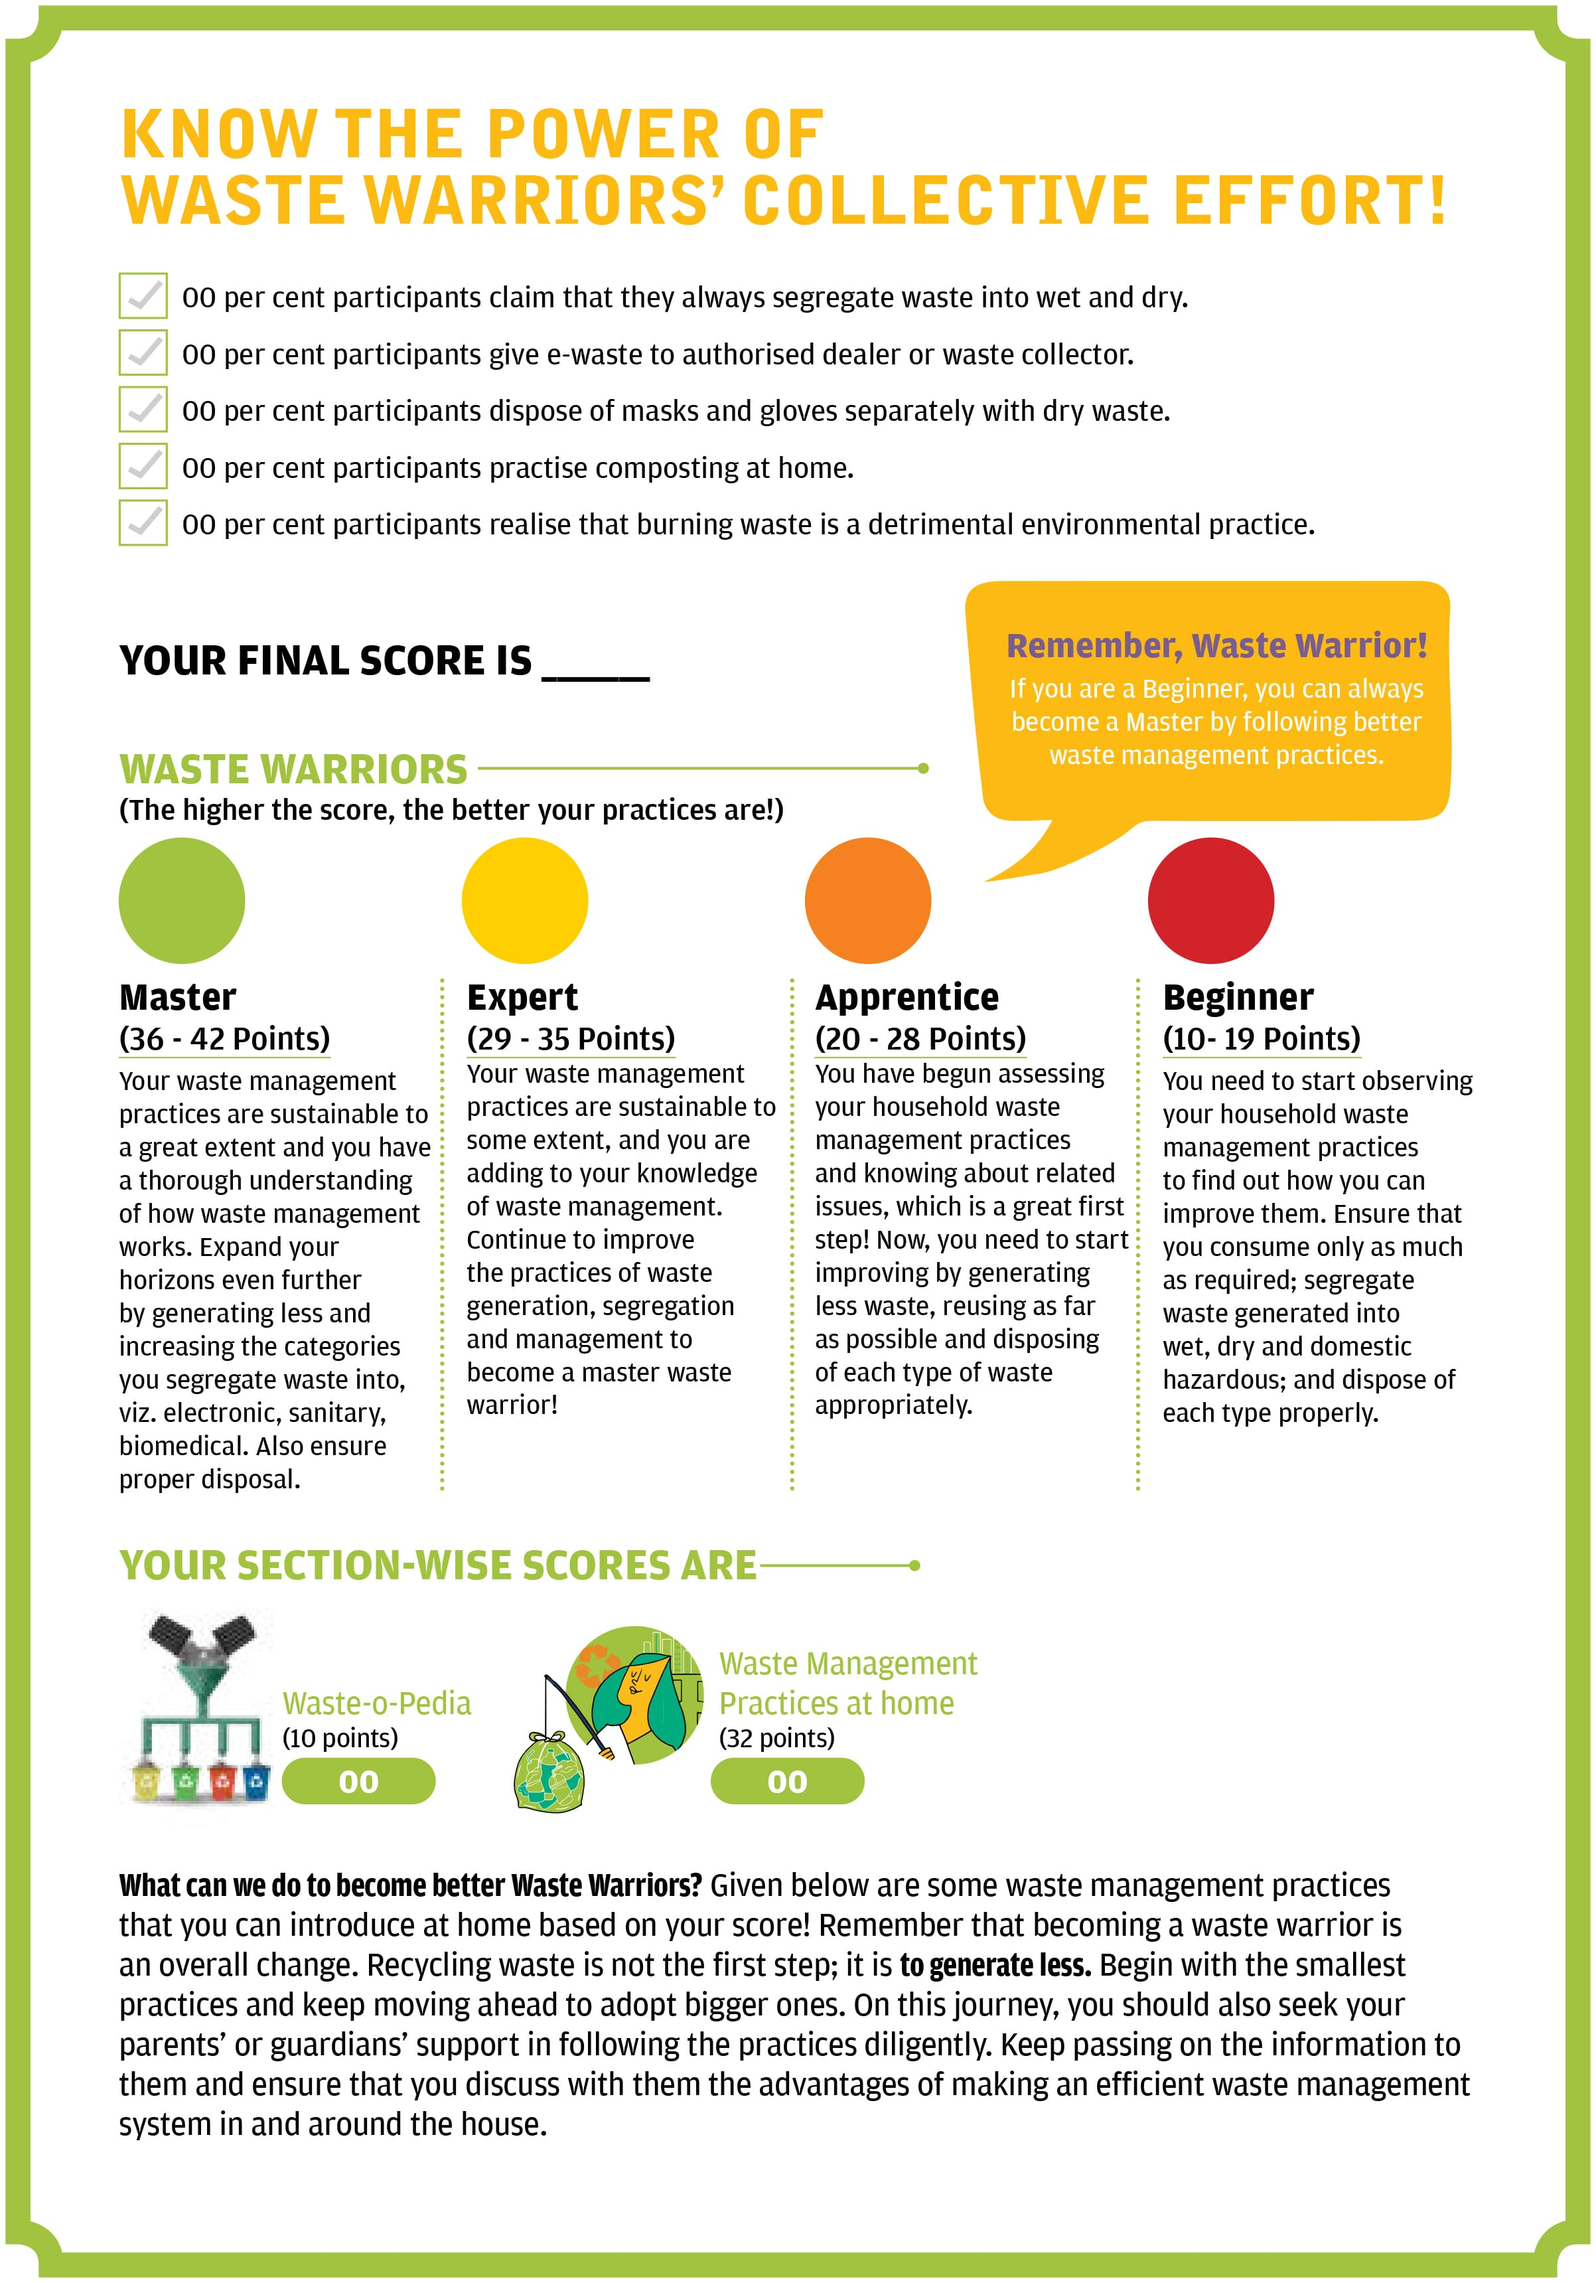
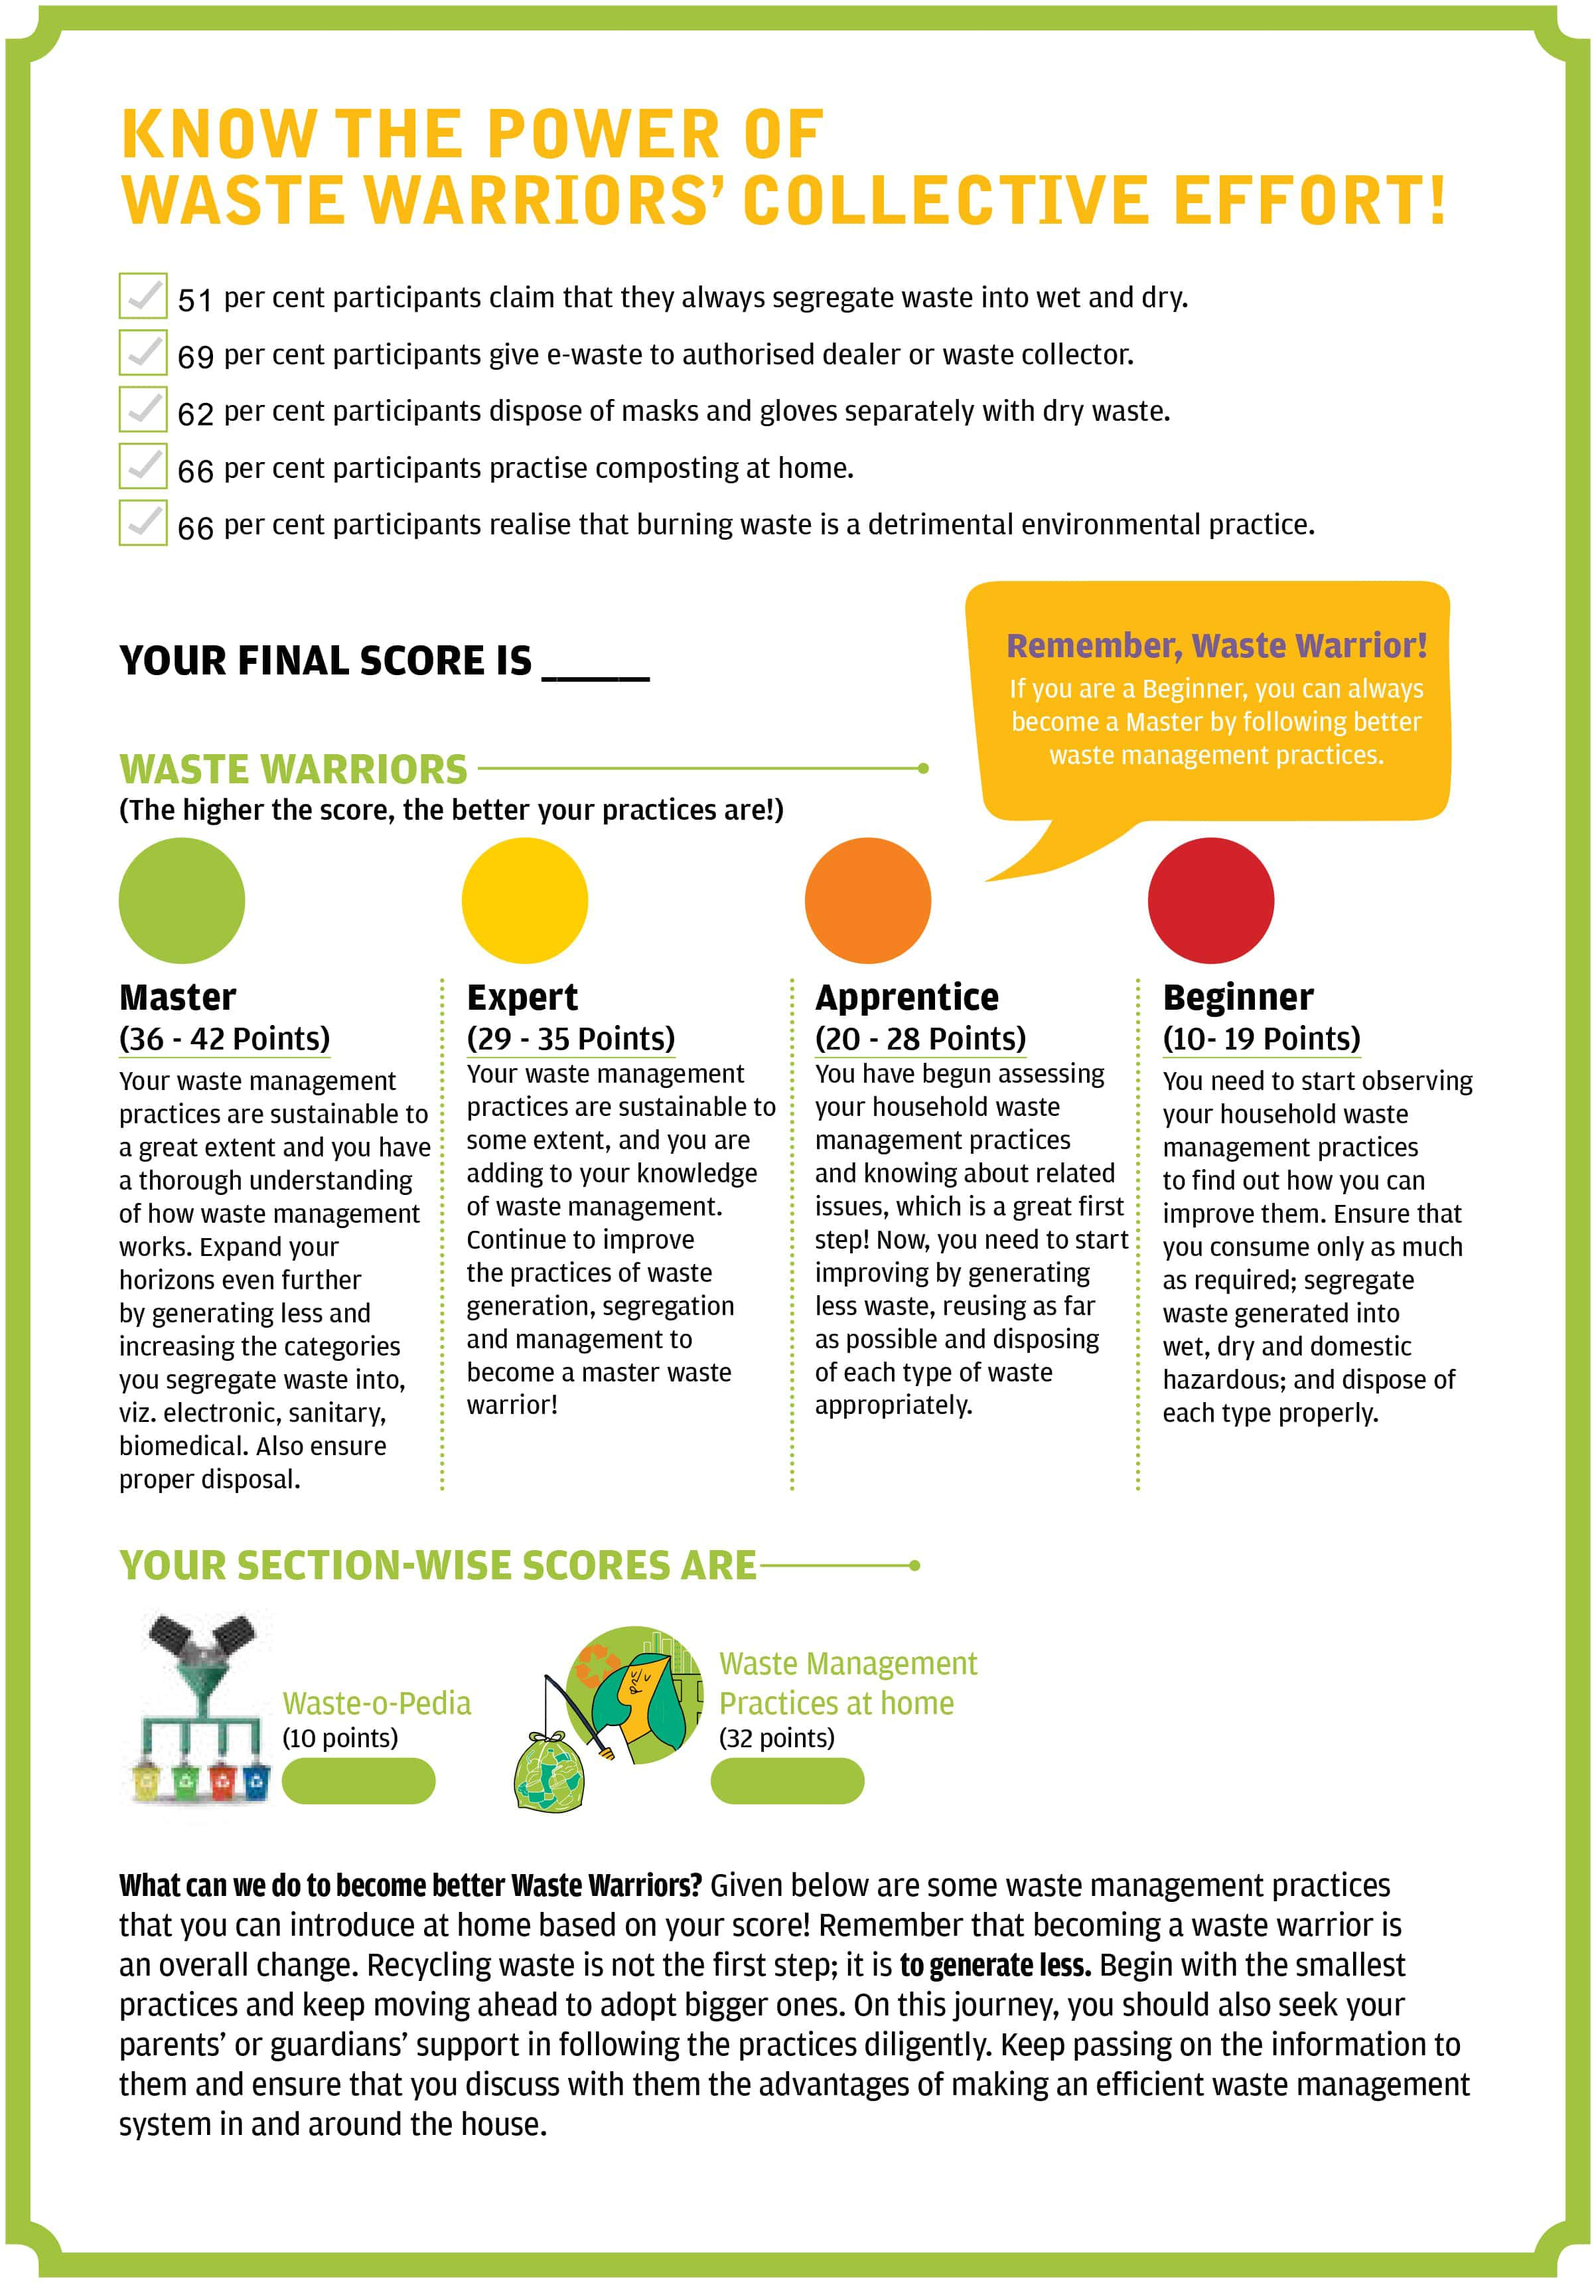
df

Changed region(s): [[0.0936, 0.1245, 0.1559, 0.1867], [0.2183, 0.7778, 0.2495, 0.809]]

diff --git a/20/application/views/digital-waste.php b/20/application/views/digital-waste.php
@@ -3,26 +3,23 @@
 <head>
 <meta http-equiv="Content-Type" content="text/html; charset=UTF-8">
   <title><?php echo $title; ?></title>
-  
     </head>
     <body>
-    
   <?php
-  echo "hello";
   if (!empty($teachers)) {
       $i=0;
       foreach($teachers as $teacher) {
 
-    if ($teacher->participant_name !="") {
+    if ($teacher->name !="") {
         echo "<div class='container'>
-        <div class='image'><img src='assets/img/images/ww1.jpg' width='794' height='1100'></div>";
+        <div class='image'><img src='assets/img/images/ww/ww1.jpg' width='794' height='1100'></div>";
   $parlen = strlen($teacher->participant_name);
   if($parlen > 30){
-    echo "<div class='principal1'>" . strtoupper($teacher->participant_name) ."</div>&nbsp;";
+    echo "<div class='principal1'>" . strtoupper($teacher->name) ."</div>&nbsp;";
 
   }
   else{
-    echo "<div class='principal'>" . strtoupper($teacher->participant_name) ."</div>&nbsp;";
+    echo "<div class='principal'>" . strtoupper($teacher->name) ."</div>&nbsp;";
 
   }
 
@@ -30,50 +27,66 @@
   // echo "<div class='principal'>" . strtoupper($teacher->participant_name) ."</div>&nbsp;";
     $length = strlen($teacher->school_name);
   if($length > 61) {
-  echo  "<div class='school_name1'>". strtoupper($teacher->school_name." ".$teacher->state )."</div>";
+  echo  "<div class='school_name1'>". strtoupper($teacher->school." ".$teacher->state )."</div>";
   
   }else{
-    echo "<div class='school_name'>". strtoupper($teacher->school_name.", ".$teacher->state )."</div>";
+    echo "<div class='school_name'>". strtoupper($teacher->school.", ".$teacher->state )."</div>";
      
   }  
-        echo "<div class='certificateno' style='text-align:right; page-break-after:always;'>"."GSP'S Audit@Home Scorecard/December2020/0".$teacher->id." </div>
+        echo "<div class='certificateno' style='text-align:right; page-break-after:always;'>"."GSP'S Audit@Home Scorecard/FEB2021/0".$teacher->id." </div>
    </div> ";
 
 
   echo "<div class='container'>
-        <div class='image'><img src='assets/img/images/page-2.jpg' width='794' height='1100'></div>";
-  echo "<div class='finalScore'>" . strtoupper($teacher->final_score) ."</div>&nbsp;";
-  echo "<div class='air'>" . strtoupper($teacher->air_score) ."</div>&nbsp;";
-  echo "<div class='energy'>" . strtoupper($teacher->energy_score) ."</div>&nbsp;";
-  echo "<div class='food'>" . strtoupper($teacher->food_score) ."</div>&nbsp;";
-  echo "<div class='land'>" . strtoupper($teacher->land_score) ."</div>&nbsp;";
-  echo "<div class='water'>" . strtoupper($teacher->water_score) ."</div>&nbsp;";
-  echo "<div class='waste'>" . strtoupper($teacher->waste_score) ."</div>&nbsp;";
+        <div class='image'><img src='assets/img/images/ww/ww2.jpg' width='794' height='1100'></div>";
+  echo "<div class='finalScore'>" . strtoupper($teacher->total) ."</div>&nbsp;";
+  echo "<div class='air'>" . strtoupper($teacher->score) ."</div>&nbsp;";
+  echo "<div class='energy'>" . strtoupper($teacher->home) ."</div>&nbsp;";
+//   echo "<div class='food'>" . strtoupper($teacher->food_score) ."</div>&nbsp;";
+//   echo "<div class='land'>" . strtoupper($teacher->land_score) ."</div>&nbsp;";
+//   echo "<div class='water'>" . strtoupper($teacher->water_score) ."</div>&nbsp;";
+//   echo "<div class='waste'>" . strtoupper($teacher->waste_score) ."</div>&nbsp;";
      
-        echo "<div class='certificateno' style='text-align:right; page-break-after:always;'>"."GSP'S Audit@Home Scorecard/December2020/0".$teacher->id." </div>
+        echo "<div class='certificateno' style='text-align:right; page-break-after:always;'>"."GSP'S Audit@Home Scorecard/FEB2021/0".$teacher->id." </div>
    </div> ";
 
 
    echo "<div class='container'>
-        <div class='image'><img src='assets/img/images/page-3.jpg' width='794' height='1100'></div>";
+        <div class='image'><img src='assets/img/images/ww/ww3.jpg' width='794' height='1100'></div>";
         
-        echo "<div class='link-1' ><a href='https://cdn.cseindia.org/docs/GSP-AP-seminar-april2020/Quizzes-Activities-on-Air-Pollution.pdf' style='color:#f7a206;' target='_blank'>https://cdn.cseindia.org/docs/GSP-AP-seminar-april2020/Quizzes-Activities-on-Air-Pollution.pdf</a></div>";
+        // echo "<div class='link-1' ><a href='https://cdn.cseindia.org/docs/GSP-AP-seminar-april2020/Quizzes-Activities-on-Air-Pollution.pdf' style='color:#f7a206;' target='_blank'>https://cdn.cseindia.org/docs/GSP-AP-seminar-april2020/Quizzes-Activities-on-Air-Pollution.pdf</a></div>";
 
-        echo "<div class='link-2' ><a href='https://cdn.cseindia.org/docs/GSP-Solar-Schools/GSP-RE-Energy-Board-Game.jpg' style='color:#f7a206;' target='_blank'>https://cdn.cseindia.org/docs/GSP-Solar-Schools/GSP-RE-Energy-Board-Game.jpg</a></div>";
+        // echo "<div class='link-2' ><a href='https://cdn.cseindia.org/docs/GSP-Solar-Schools/GSP-RE-Energy-Board-Game.jpg' style='color:#f7a206;' target='_blank'>https://cdn.cseindia.org/docs/GSP-Solar-Schools/GSP-RE-Energy-Board-Game.jpg</a></div>";
 
         echo "<div class='link-3' ><a href='https://www.downtoearth.org.in/dte-infographics/waste-to-worth/index.html' style='color:#f7a206;' target='_blank'>https://www.downtoearth.org.in/dte-infographics/waste-to-worth/index.html</a></div>";
  
-        echo "<div class='certificateno' style='text-align:right; page-break-after:always;'>"."GSP'S Audit@Home Scorecard/December2020/0".$teacher->id." </div>
+        echo "<div class='certificateno' style='text-align:right; page-break-after:always;'>"."GSP'S Audit@Home Scorecard/FEB2021/0".$teacher->id." </div>
    </div> ";
 
 
    echo "<div class='container'>
-        <div class='image'><img src='assets/img/images/page-4.jpg' width='794' height='1080'></div>";
+        <div class='image'><img src='assets/img/images/ww/ww4.jpg' width='794' height='1080'></div>";
+        $parlen = strlen($teacher->participant_name);
+        if($parlen > 30){
+          echo "<div class='principal1'>" . strtoupper($teacher->name) ."</div>&nbsp;";
+      
+        }
+        else{
+          echo "<div class='principal'>" . strtoupper($teacher->name) ."</div>&nbsp;";
+      
+        }
 
-        echo "<div class='link-4'><a href='support@greenschoolsprogramme.org' style='color:#f7a206;'> support@greenschoolsprogramme.org</a></div>";
-        echo "<div class='link-5'><a href='support@greenschoolsprogramme.org' style='color:#f7a206;'> support@greenschoolsprogramme.org</a></div>";
+        $length = strlen($teacher->school_name);
+        if($length > 61) {
+        echo  "<div class='school_name1'>". strtoupper($teacher->school." ".$teacher->state )."</div>";
+        
+        }else{
+          echo "<div class='school_name'>". strtoupper($teacher->school.", ".$teacher->state )."</div>";
+           
+        }  
+        
   
-        echo "<div class='certificateno'>"."GSP'S Audit@Home Scorecard/December2020/0".$teacher->id." </div>
+        echo "<div class='certificateno'>"."GSP'S Audit@Home Scorecard/FEB2021/0".$teacher->id." </div>
    </div> ";
 
 
@@ -100,7 +113,7 @@ body{
 .certificateno{ position:absolute; top:1048px; left: 10px; font-size: 16px;}
 .link-1{ position:absolute; top:196px; left: 60px; font-size:12px; font-style:italic; font-weight:bold;}
 .link-2{ position:absolute; top:363px; left: 60px; font-size:12px; font-style:italic; font-weight:bold;}
-.link-3{ position:absolute; top:940px; left: 75px; font-size:12px; font-style:italic; font-weight:bold;}
+.link-3{ position:absolute; top:540px; left: 22px; font-size:12px; font-style:italic; font-weight:bold;}
 .link-4{ position:absolute; top:368px; left: 125px; font-size:16px; font-weight:bold;}
 .link-5{ position:absolute; top:425px; left: 315px; font-size:16px; font-weight:bold;}
 .principal{ position:relative; text-align: center; top:565px; font-size: 18px;}
@@ -109,8 +122,8 @@ body{
 .school_name1{ position:relative; text-align: center; top:562px; font-size: 14px;}
 .school_name{ position:relative; text-align: center; top:562px; font-size: 18px;}
 .image{position:absolute; margin-left: -45px; margin-top: -45px;}
-.air{position:relative;top:748px; left: 53px; font-weight: bold; color: white}
-.energy{position:relative;top:701px; left: 165px; font-weight: bold; color: white}
+.air{position:relative;top:748px; left: 128px; font-weight: bold; color: white}
+.energy{position:relative;top:701px; left: 336px; font-weight: bold; color: white}
 .food{position:relative;top:653px; left: 280px; font-weight: bold; color: white}
 .land{position:relative;top:604px; left: 395px; font-weight: bold; color: white}
 .water{position:relative;top:558px; left: 505px; font-weight: bold; color: white}

diff --git a/20/application/controllers/Audit_home_scorecard.php b/20/application/controllers/Audit_home_scorecard.php
@@ -23,8 +23,8 @@ class Audit_home_scorecard extends CI_Controller{
 
     public function getAuditScore(){
         $mobile = $this->input->post('parent_mob');
-        $this->db->where("parent_mob",$mobile);
-        $dataCertificate=$this->db->select("*")->from("gsp_audit_home_scorecard_bihar")->get()->result();
+        $this->db->where("mobile",$mobile);
+        $dataCertificate=$this->db->select("*")->from("ww")->get()->result();
          
 
         // $this->session->set_flashdata('data_name', 'The link to download the GSP Online Air Seminar April 2020 certificate is now closed.');
@@ -34,11 +34,11 @@ class Audit_home_scorecard extends CI_Controller{
        if(count($dataCertificate)==1){
         $data['teachers'] = $dataCertificate;
 
-        $data['title']="GSP Student Audit Home Score";
+        $data['title']="Waste Warriors";
         $this->load->library('dompdf_lib');
         ini_set('memory_limit', '-1');
        
-        $html = $this->load->view('gsp_audit_home_scorecard', $data, true);
+        $html = $this->load->view('digital-waste', $data, true);
         $html = preg_replace('/>\s+</', "><", $html);
 
         $this->dompdf->load_html($html);

diff --git a/20/application/views/audit_home.php b/20/application/views/audit_home.php
@@ -36,7 +36,7 @@
   <?php } ?>
     <p style="font-weight: bold;">Please note that scorecards will be available only to those students who have submitted the GSP's Audit@Home. Thanks!  </p>
      <div class="row" style="padding: 5px; margin-top: 40px; text-align: center;">
-    <?php echo form_open('GetCertificate/getWaste', array('class'=>'form-inline')); ?>
+    <?php echo form_open('Audit_home_scorecard/getAuditScore', array('class'=>'form-inline')); ?>
         <div class="form-group" style="width: 100%">
             <label for="number">Registered Guardian's Mobile Number:<a class="tt" data-tooltip="Please enter the 10-digit mobile number used at the time of online registration."><span
                             class="badge">?</span></a></label> &nbsp; &nbsp;
